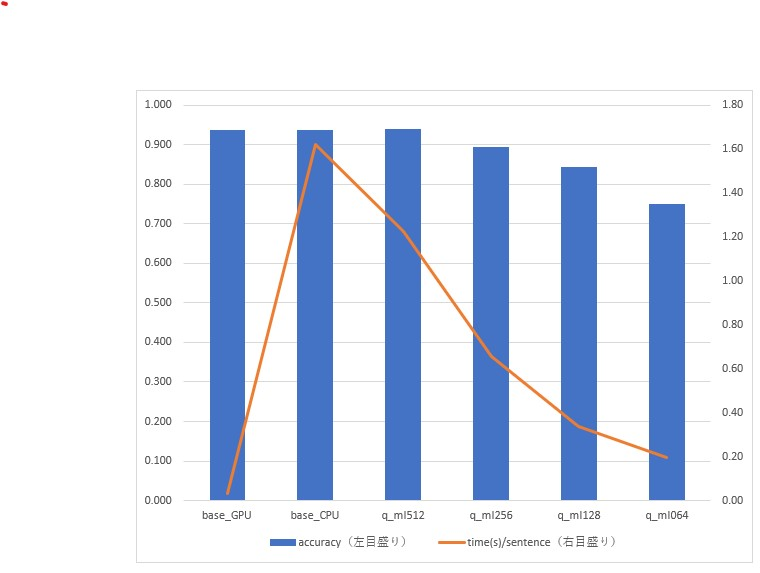
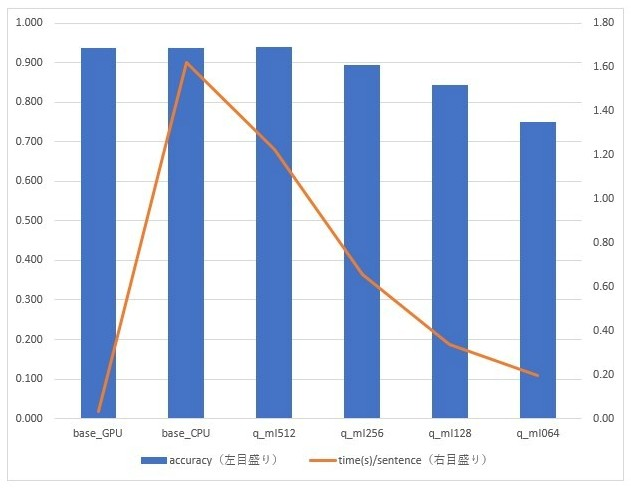
Modify chart 1

diff --git a/README.md b/README.md
@@ -13,7 +13,7 @@
 
 結果は以下の通りです。CPUを用いたベースモデル(base_CPU)に対し、量子化とMAX_LENGTHの縮小を行ったモデル(q_ml128, q_ml064)では、精度は低下するものの（94%→84%～75%）、性能は５～８倍になりました。
 
-<img src="images\chart1_result.jpg" alt="図１ 評価結果" style="zoom:80%;" />
+<img src="images\chart1_result.jpg" alt="図１ 評価結果" style="zoom:100%;" />
 
 <img src="images\table1_result.jpg" alt="表1 評価結果" style="zoom:100%;" />
 
